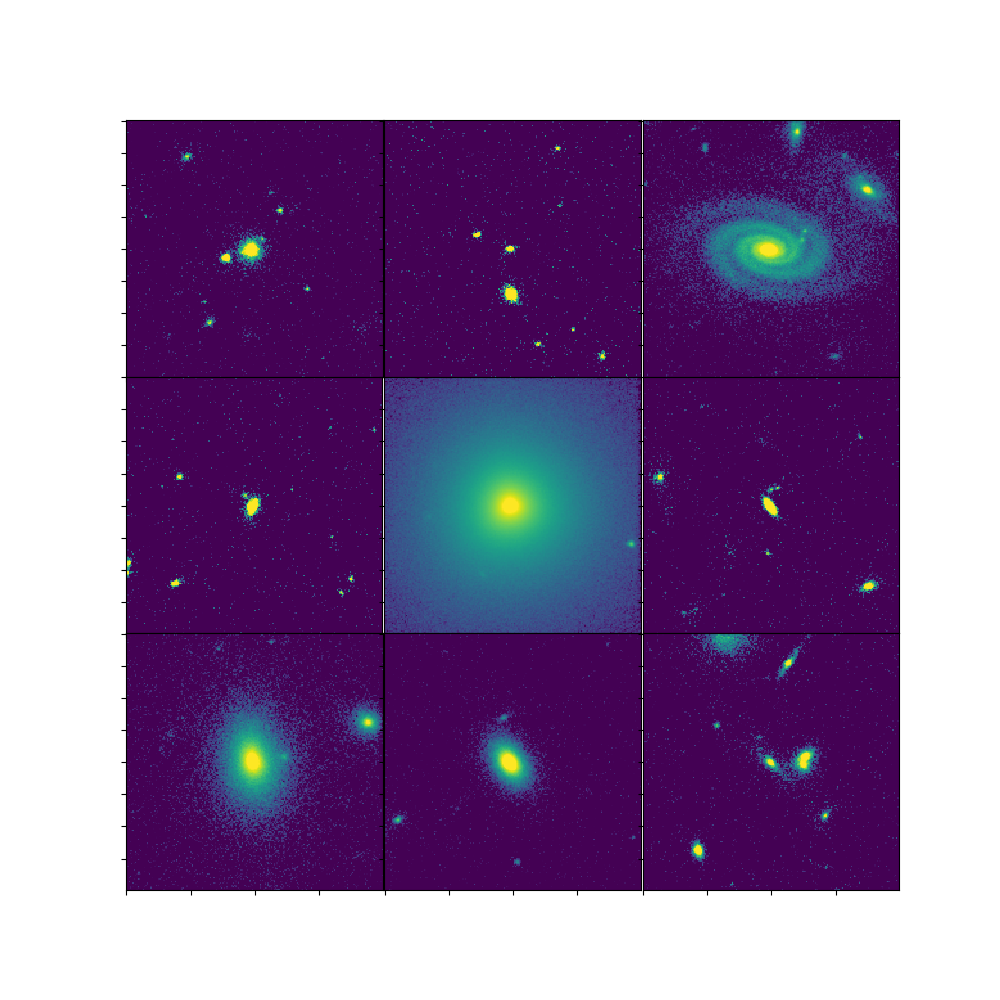
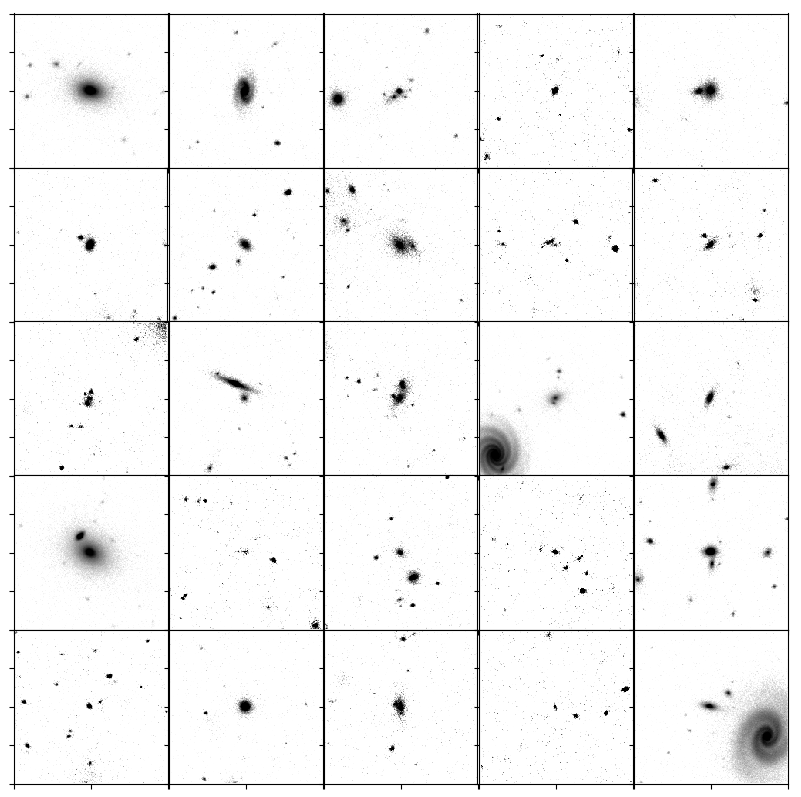
FP greyscale plots

diff --git a/src/see_fp.py b/src/see_fp.py
@@ -6,9 +6,12 @@ from sklearn.model_selection import train_test_split
 import os
 import pandas as pd
 import numpy as np
+import matplotlib
+matplotlib.use('Agg')
 import matplotlib.pyplot as plt
 import configparser
 import sys
+matplotlib.rcParams["image.cmap"]="Greys"
 
 if len(sys.argv) == 2:
     config_file = 'config_lesta_df.ini'
@@ -33,7 +36,7 @@ DATA = os.path.join(WORKDIR, 'data')
 RESULTS = os.path.join(WORKDIR, 'results')
 TRAIN = os.path.join(DATA, 'datapack2.0train/Public')
 TEST = os.path.join(DATA, 'datapack2.0test/Public')
-TRAIN_MULTIBAND = os.path.join(DATA, 'train_multiband_bin')
+TRAIN_MULTIBAND = config['general']['train_multiband']
 TRAIN_MULTIBAND_NOCLIP = os.path.join(DATA, 'train_multiband_noclip_bin')
 TEST_MULTIBAND = os.path.join(DATA, 'test_multiband')
 CHECKPOINTS = os.path.join(RESULTS, 'checkpoints')
@@ -44,9 +47,25 @@ lens_df = pd.read_csv(os.path.join(RESULTS, 'lens_id_labels.csv'), index_col=0)
 dataframe_for_generator = helpers.build_generator_dataframe(
     lens_df, TRAIN_MULTIBAND)
 print(TRAIN_MULTIBAND)
-n_val = 100
+total_examples = len(dataframe_for_generator)
+# Extract bands from filename
+bands = []
+if 'VIS0' in model_name:
+    bands.append(False)
+elif 'VIS1' in model_name:
+    bands.append(True)
+if 'NIR000' in model_name:
+    [bands.append(False) for i in range(3)]
+elif 'NIR111' in model_name:
+    [bands.append(True) for i in range(3)]
+else:
+    print("Couldn\'t extract used bands from filename, using all.")
+    bands = [True, True, True, True]
+bands = list(np.array(bands).reshape(-1))
+
+n_val = 2000
 train_df, val_df = train_test_split(dataframe_for_generator,
-                                    test_size=1000,
+                                    test_size=n_val,
                                     random_state=42)
 total_train = len(train_df)
 total_val = len(val_df)
@@ -54,21 +73,20 @@ print(total_val)
 image_data_gen_val = data_generator_function.TiffImageDataGenerator(
     dtype='float32')
 roc_val_data_gen = image_data_gen_val.prop_image_generator_dataframe(
-    val_df,
+    dataframe_for_generator,
     directory=TRAIN_MULTIBAND,
     x_col='filenames',
     y_col='labels',
     batch_size=n_val,
     validation=True,
     ratio=0.5,
-    bands=[True, False, False, False],
-   # bands=[True, True, True, True],
+    bands=bands,
     binary=True,
     get_ids=True,
     id_col='filenames')
 images_val, labels_true, ids = next(roc_val_data_gen)
 labels_score = model.predict(images_val,
-                             batch_size=10,
+                             steps=1,
                              verbose=2,
                              workers=16,
                              use_multiprocessing=True)
@@ -87,6 +105,7 @@ fpr = np.mean(FP)
 print(fpr)
 fp_ids = ids[FP]
 n_fp = len(fp_ids)
+print(n_fp)
 max_arr_side = 5
 array_side = min(int(np.sqrt(n_fp)), max_arr_side)
 fig, ax = plt.subplots(array_side, array_side, figsize=(10, 10))
@@ -97,5 +116,6 @@ for i, a in enumerate(ax.ravel()):
     a.set_yticklabels([])
 
 plt.subplots_adjust(wspace=0, hspace=0)
+#fig.tight_layout()
 fig.savefig(os.path.join(WORKDIR, os.path.basename(
-    model_name).replace('.h5', '_FALSE_POSITIVES.png')), dpi=100)
+    model_name).replace('.h5', '_FALSE_POSITIVES.png')), dpi=100, bbox_inches='tight')
